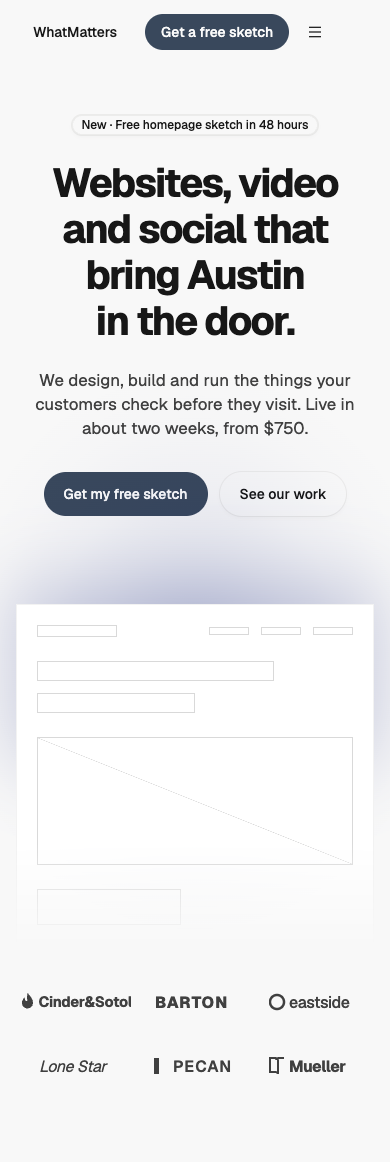
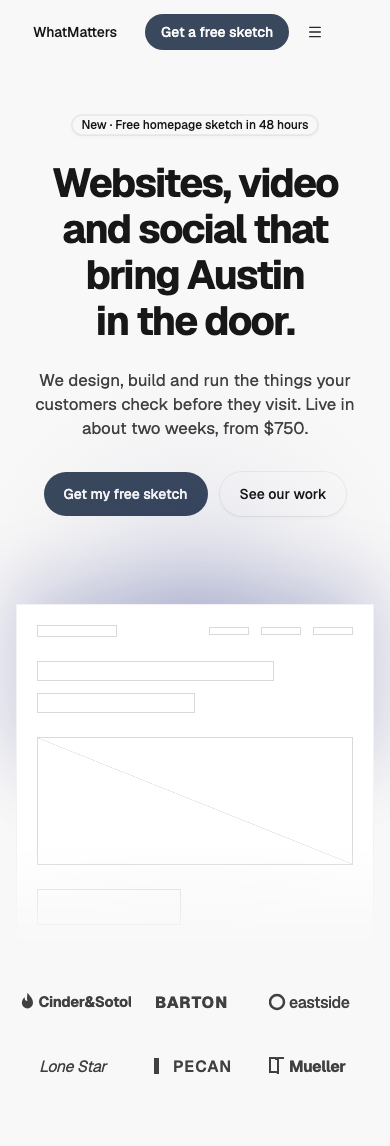
Hero — Feature Center: section padding 48 / 64 top and bottom (was 48 / 96), per the patterns' spacing rule

diff --git a/patterns/hero/feature-center/HeroFeatureCenter.tsx b/patterns/hero/feature-center/HeroFeatureCenter.tsx
@@ -42,8 +42,8 @@ export interface HeroFeatureCenterProps {
 const rootClasses = "relative w-full overflow-x-clip";
 /** The section lays its content on the WMDS page grid (centred, gutters, columns by breakpoint). */
 const sectionClasses = "grid-page relative !py-0";
-/** Centred copy across the page grid; the headline needs the width for 2 lines. Nav→eyebrow 48 / 96. */
-const copyClasses = "relative col-span-full flex flex-col items-center pt-12 text-center lg:pt-24";
+/** Centred copy across the page grid; the headline needs the width for 2 lines. Section padding 48 / 64 (the logos row closes with the same). */
+const copyClasses = "relative col-span-full flex flex-col items-center pt-12 text-center md:pt-16";
 /** WMDS type-display-1 as it is (fluid 40px → 80px): about 58 characters take 2 lines at desktop. */
 const headlineClasses = "type-display-1 min-w-0 max-w-[min(16em,100%)] text-balance [overflow-wrap:anywhere] hyphens-auto";
 /** Headline→subhead 24, regular weight (type-large is semibold in some WMDS versions), about 42rem measure. */
@@ -68,8 +68,8 @@ const haloClasses =
 /** The window: fades out over its last 30%, like a cropped app screen. */
 const frameClasses =
   "relative overflow-hidden rounded-[var(--radius-surface)] border border-border bg-surface [mask-image:linear-gradient(to_bottom,black_70%,transparent)]";
-/** Visual→proof is the grid's 24px row gap (the frame's faded foot already reads as space); proof→next 96. */
-const logosWrapClasses = "relative col-span-full pb-16 lg:pb-24";
+/** Visual→proof is the grid's 24px row gap (the frame's faded foot already reads as space); bottom padding 48 / 64. */
+const logosWrapClasses = "relative col-span-full pb-12 md:pb-16";
 
 export function HeroFeatureCenter({
   nav,

diff --git a/patterns/hero/feature-center/README.md b/patterns/hero/feature-center/README.md
@@ -65,7 +65,7 @@ The first item is the example the gallery's Copy prompt uses.
 
 ## Spacing
 
-Nav→eyebrow 48 / 96 (phone / desktop), headline→subhead 24, subhead→CTAs 32, CTAs→visual 64, visual→logos 24 (the frame's faded foot already reads as space), logos→next section 64 / 96.
+Section padding 48 / 64 top and bottom (phone / tablet and up), headline→subhead 24, subhead→CTAs 32, CTAs→visual 64, visual→logos 24 (the frame's faded foot already reads as space), logos→section bottom 48 / 64.
 
 ## WMDS-GAPs
 
